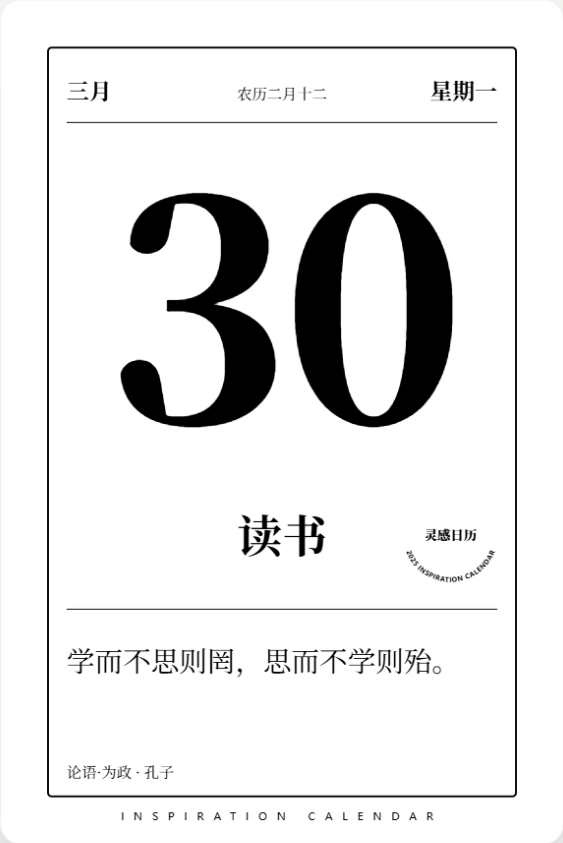
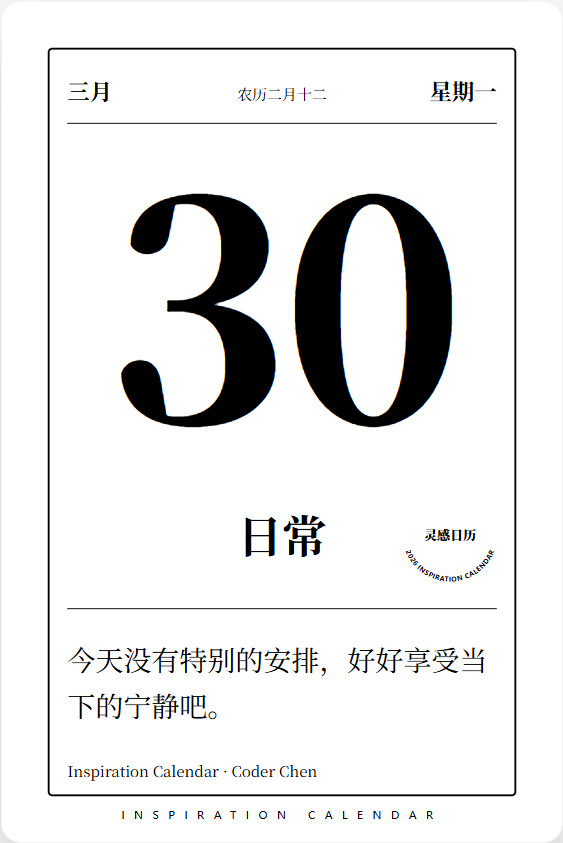
feat: 修改日历样式

diff --git a/src/components/themes/DarkCalendar.tsx b/src/components/themes/DarkCalendar.tsx
@@ -16,6 +16,7 @@ const DarkCalendar: React.FC<ThemeComponentProps> = ({ date, lunar, content, loa
             .dark-display { font-family: 'Cinzel', 'Times New Roman', serif; }
             .dark-serif { font-family: 'Noto Serif SC', 'Songti SC', serif; }
             .dark-quote { font-family: 'Playfair Display', 'Noto Serif SC', 'Songti SC', serif; font-style: italic; font-weight: 400; }
+            .dark-quote-cn { font-family: 'Noto Serif SC', 'Songti SC', 'Playfair Display', serif; font-weight: 400; }
           `}
         </style>
 
@@ -41,7 +42,7 @@ const DarkCalendar: React.FC<ThemeComponentProps> = ({ date, lunar, content, loa
       <text
         x="60"
         y="80"
-        fontSize="12"
+        fontSize="15"
         fill={COLOR_GLOW}
         className="dark-serif"
         fontWeight="500"
@@ -55,7 +56,7 @@ const DarkCalendar: React.FC<ThemeComponentProps> = ({ date, lunar, content, loa
       <text
         x="300"
         y="80"
-        fontSize="12"
+        fontSize="14"
         textAnchor="middle"
         fill={COLOR_GLOW}
         className="dark-serif"
@@ -69,7 +70,7 @@ const DarkCalendar: React.FC<ThemeComponentProps> = ({ date, lunar, content, loa
       <text
         x="540"
         y="80"
-        fontSize="12"
+        fontSize="15"
         textAnchor="end"
         fill={COLOR_GLOW}
         className="dark-serif"
@@ -168,15 +169,13 @@ const DarkCalendar: React.FC<ThemeComponentProps> = ({ date, lunar, content, loa
             />
           </g>
 
-          {/* --- 引言区域：纤薄、深邃的斜体字重对比 --- */}
-          {/* 大量下沉释放空间，取消杂乱的背景光 */}
+          {/* --- 引言区域：正体衬线 + 金色辉光的仪式感 --- */}
           <foreignObject x="80" y="650" width="440" height="140">
             <div
-              className={`${styles.quoteText} dark-quote`}
+              className={`${styles.quoteText} dark-quote-cn`}
               style={{
                 color: '#DBC277',
                 opacity: 0.85,
-                fontSize: '1.25rem',
                 lineHeight: '2.2',
                 textAlign: 'center',
               }}
@@ -189,7 +188,7 @@ const DarkCalendar: React.FC<ThemeComponentProps> = ({ date, lunar, content, loa
           <text
             x="300"
             y="790"
-            fontSize="12"
+            fontSize="14"
             fill={COLOR_GLOW}
             className="dark-serif"
             textAnchor="middle"
@@ -225,7 +224,7 @@ const DarkCalendar: React.FC<ThemeComponentProps> = ({ date, lunar, content, loa
       <text
         x="300"
         y="864"
-        fontSize="10"
+        fontSize="12"
         textAnchor="middle"
         fill={COLOR_GLOW}
         className="dark-display"

diff --git a/src/components/themes/MinimalistCalendar.tsx b/src/components/themes/MinimalistCalendar.tsx
@@ -18,6 +18,7 @@ const MinimalistCalendar: React.FC<ThemeComponentProps> = ({ date, lunar, conten
             .min-serif { font-family: 'Playfair Display', 'Cormorant Garamond', 'Noto Serif SC', 'Songti SC', serif; }
             .min-sans { font-family: 'SF Pro Display', -apple-system, BlinkMacSystemFont, 'Noto Sans SC', sans-serif; }
             .min-italic { font-family: 'Cormorant Garamond', 'Playfair Display', 'Noto Serif SC', serif; font-style: italic; }
+            .min-quote { font-family: 'Noto Serif SC', 'Songti SC', 'Cormorant Garamond', serif; font-weight: 400; }
           `}
         </style>
       </defs>
@@ -34,7 +35,7 @@ const MinimalistCalendar: React.FC<ThemeComponentProps> = ({ date, lunar, conten
       <text
         x="60"
         y="100"
-        fontSize="14"
+        fontSize="16"
         className="min-sans"
         fill={COLOR_SECONDARY}
         letterSpacing="4"
@@ -45,7 +46,7 @@ const MinimalistCalendar: React.FC<ThemeComponentProps> = ({ date, lunar, conten
       <text
         x="540"
         y="100"
-        fontSize="14"
+        fontSize="15"
         textAnchor="end"
         className="min-sans"
         fill={COLOR_SECONDARY}
@@ -92,15 +93,14 @@ const MinimalistCalendar: React.FC<ThemeComponentProps> = ({ date, lunar, conten
             </text>
           )}
 
-          {/* 打破居中，引言采用左对齐斜体排布，制造非对称的文学呼吸感 */}
+          {/* 左对齐排布，以正体衬线和留白制造文学呼吸感 */}
           <foreignObject x="80" y="620" width="440" height="180">
             <div
-              className={`${styles.quoteText} min-italic`}
+              className={`${styles.quoteText} min-quote`}
               style={{
                 textAlign: 'left',
                 color: COLOR_PRIMARY,
-                fontSize: '1.25rem',
-                lineHeight: '2',
+                lineHeight: '2.2',
               }}
             >
               {content.quote}
@@ -110,7 +110,7 @@ const MinimalistCalendar: React.FC<ThemeComponentProps> = ({ date, lunar, conten
           <text
             x="80"
             y="820"
-            fontSize="14"
+            fontSize="15"
             className="min-sans"
             fill={COLOR_SECONDARY}
             letterSpacing="1"

diff --git a/src/styles/dark.module.css b/src/styles/dark.module.css
@@ -1,23 +1,20 @@
 /* Dark 主题：深炭黑背景 + 金色衬线字体，高端仪式感 */
 .calendar {
-  display: block;
-  width: 100%;
-  height: auto;
+  composes: calendarBase from './base.module.css';
   background-color: #212124;
   background-image: radial-gradient(circle at center, #2a2a2d 0%, #1a1a1c 100%);
   box-shadow: 0 30px 60px -15px rgba(0, 0, 0, 0.6);
   border: 1px solid #333;
   border-radius: 4px;
-  overflow: hidden;
 }
 
 .quoteText {
   color: #d4af37;
   font-family: 'Playfair Display', Georgia, 'Noto Serif SC', 'Songti SC', serif;
-  font-size: 1.375rem;
+  font-size: 1.4rem;
   line-height: 1.8;
   text-align: center;
-  font-style: italic;
+  /* font-style: italic; */
   font-weight: 300;
   text-shadow: 0 4px 15px rgba(0, 0, 0, 0.8);
 }

diff --git a/src/styles/base.module.css b/src/styles/base.module.css
@@ -1,29 +1,13 @@
+/* 公共基础样式 — 所有主题共享 */
 .wrapper {
   width: 100%;
   max-width: 24rem;
 }
 
-.calendar {
+/* 所有主题的 SVG 根元素共享样式，主题通过 composes 引用 */
+.calendarBase {
   display: block;
   width: 100%;
   height: auto;
-  background-color: #ffffff;
-  box-shadow: 0 25px 50px -12px rgb(0 0 0 / 0.25);
-  border: 1px solid #f3f4f6;
-  border-radius: 1rem;
   overflow: hidden;
-}
-
-.fontBold {
-  font-weight: 700;
-}
-
-.fontBlack {
-  font-weight: 900;
-}
-
-.quoteText {
-  color: #000000;
-  font-size: 1.875rem;
-  line-height: 1.625;
 }

diff --git a/src/styles/minimalist.module.css b/src/styles/minimalist.module.css
@@ -1,19 +1,16 @@
 /* Minimalist 主题：浅米色背景，极简排版，大量留白 */
 .calendar {
-  display: block;
-  width: 100%;
-  height: auto;
+  composes: calendarBase from './base.module.css';
   background-color: #f8f6f0; /* 更加纯净温馨的本白色 */
   box-shadow: 0 4px 12px rgba(0, 0, 0, 0.05);
   border: none;
   border-radius: 2px;
-  overflow: hidden;
 }
 
 .quoteText {
   color: #3a3532;
   font-family: 'Playfair Display', Georgia, Baskerville, 'Noto Serif SC', 'Songti SC', serif;
-  font-size: 1.125rem;
+  font-size: 1.5rem;
   line-height: 2;
   text-align: center;
 }

diff --git a/src/utils/contentResolver.ts b/src/utils/contentResolver.ts
@@ -1,6 +1,7 @@
 import type { CalendarContent, CalendarProps } from '../types';
 import { formatLocalDate, parseLocalDate } from './dateUtils';
 
+// 以此日为"第 0 天"，按天数差值对内容数组取模，保证同一日期每次都展示同一条。
 const CONTENT_ROTATION_ANCHOR_UTC = Date.UTC(2026, 2, 26);
 
 export function isSameLocalDate(dateStr: string, targetDate: Date): boolean {

diff --git a/src/styles/classic.module.css b/src/styles/classic.module.css
@@ -1,13 +1,10 @@
 /* Classic 主题：白底黑字，中式书法排版 */
 .calendar {
-  display: block;
-  width: 100%;
-  height: auto;
+  composes: calendarBase from './base.module.css';
   background-color: #ffffff;
   box-shadow: 0 25px 50px -12px rgb(0 0 0 / 0.25);
   border: 1px solid #f3f4f6;
   border-radius: 1rem;
-  overflow: hidden;
 }
 
 .quoteText {

diff --git a/src/components/themes/ClassicCalendar.tsx b/src/components/themes/ClassicCalendar.tsx
@@ -91,7 +91,7 @@ const ClassicCalendar: React.FC<ThemeComponentProps> = ({ date, lunar, content, 
             textAnchor="middle"
             dominantBaseline="hanging"
           >
-            2025 INSPIRATION CALENDAR
+            {`${date.getFullYear()} INSPIRATION CALENDAR`}
           </textPath>
         </text>
       </g>

diff --git a/demo/main.tsx b/demo/main.tsx
@@ -1,6 +1,6 @@
 import React from 'react';
 import ReactDOM from 'react-dom/client';
-import '../src/index.css';
+import './global.css';
 import DemoApp from './DemoApp';
 
 const rootElement = document.getElementById('root');

diff --git a/src/index.ts b/src/index.ts
@@ -1,5 +1,3 @@
-import './index.css';
-
 export { default as Calendar } from './components/Calendar';
 export { getLunarInfo } from './utils/lunar';
 export type { CalendarContent, LunarInfo, CalendarProps } from './types';

diff --git a/demo/global.css b/demo/global.css
@@ -1,6 +1,8 @@
+/* Demo 专用全局样式 — 仅用于本地演示，不会发布到 npm */
 body {
   font-family: 'Noto Sans SC', sans-serif;
   background-color: #f5f5f5;
+  margin: 0;
 }
 
 .serif-sc {

diff --git a/docs/architecture.md b/docs/architecture.md
@@ -14,7 +14,9 @@ react-inspiration-calendar/
 │   │       ├── MinimalistCalendar.tsx # minimalist 主题渲染
 │   │       └── index.ts             # 主题注册表
 │   ├── utils/
-│   │   └── lunar.ts              # 真实农历计算（基于 lunar-javascript）
+│   │   ├── lunar.ts              # 真实农历计算（基于 lunar-javascript）
+│   │   ├── dateUtils.ts          # 本地日期解析与格式化
+│   │   └── contentResolver.ts    # 静态内容解析（日期匹配 + 无日期轮播）
 │   ├── styles/
 │   │   ├── base.module.css       # 公共基础样式
 │   │   ├── classic.module.css    # classic 主题样式
@@ -24,6 +26,7 @@ react-inspiration-calendar/
 ├── demo/                         # 本地演示应用（不发布到 npm）
 │   ├── index.html
 │   ├── main.tsx
+│   ├── global.css                # Demo 专用全局样式
 │   └── DemoApp.tsx
 ├── dist/                         # 构建产物（git ignore）
 ├── docs/                         # 项目文档
@@ -256,8 +259,8 @@ interface ThemeComponentProps {
 
 | 文件              | 格式            | 用途                                 |
 | ----------------- | --------------- | ------------------------------------ |
-| `dist/*.es.js`    | ESModule        | 现代打包工具使用（`import`）         |
-| `dist/*.cjs`      | CommonJS        | Node.js / 旧版工具使用（`require`）  |
+| `dist/index.js`   | ESModule        | 现代打包工具使用（`import`）         |
+| `dist/index.cjs`  | CommonJS        | Node.js / 旧版工具使用（`require`）  |
 | `dist/style.css`  | CSS             | 组件样式（用户需手动 `import` 引入） |
 | `dist/index.d.ts` | TypeScript 声明 | 类型提示支持                         |
 
